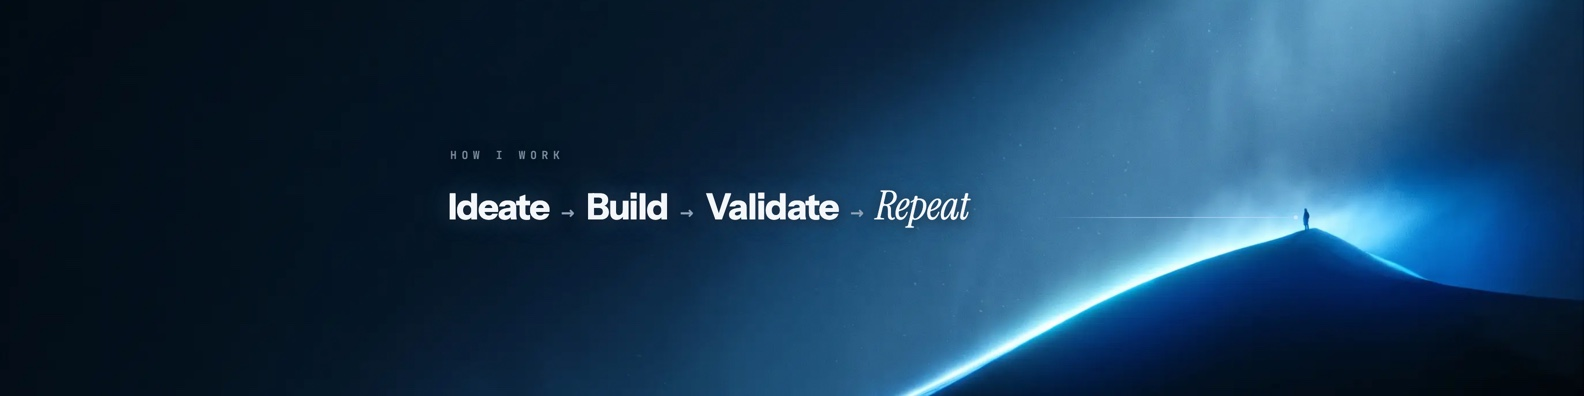
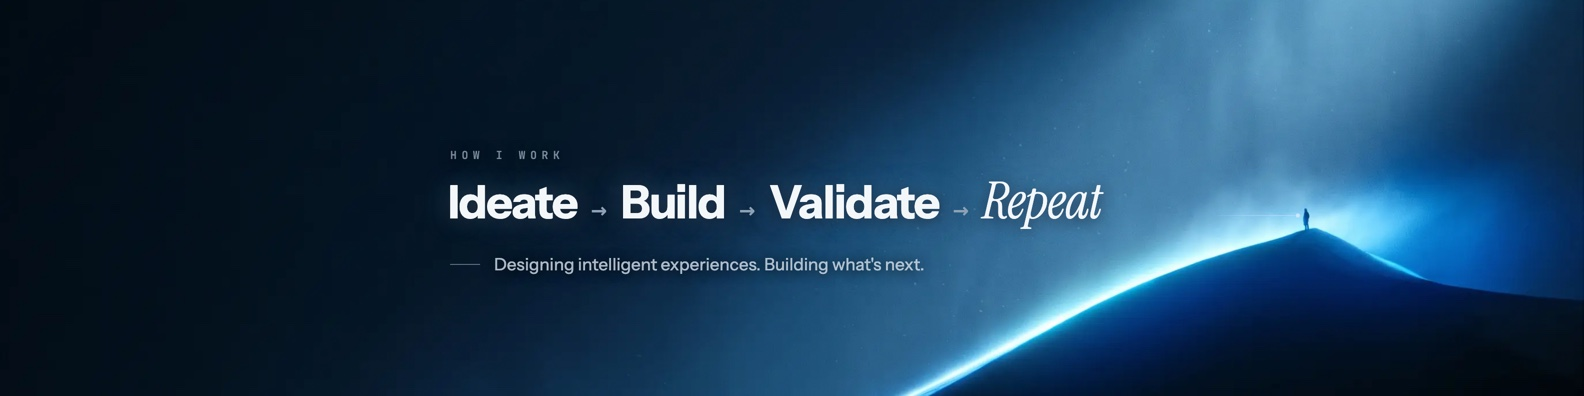
polish(brand): linkedin cover v3.4 — the loop grows, the tagline lands
Per the reference: the loop returns to display size (46px sans, 51px
serif), and 'Designing intelligent experiences. Building what's next.'
arrives beneath it with its dash lead-in. The leader line shortens to keep
its rendezvous with the figure.

Changed region(s): [[0.2784, 0.4545, 0.7115, 0.5758], [0.3093, 0.6364, 0.5878, 0.697]]

diff --git a/linkedin-cover.html b/linkedin-cover.html
@@ -36,26 +36,38 @@
       color: rgba(158,178,198,.75); white-space: nowrap;
       text-shadow: 0 1px 12px rgba(2,4,8,.8);
     }
-    .loop { position: absolute; left: 448px; top: 180px; z-index: 4; white-space: nowrap; }
+    .loop { position: absolute; left: 448px; top: 168px; z-index: 4; white-space: nowrap; }
     .w {
       display: inline-block;
-      font-weight: 700; font-size: 36px; letter-spacing: -0.025em;
+      font-weight: 700; font-size: 46px; letter-spacing: -0.025em;
       color: #F4F7FA;
-      text-shadow: 0 0 26px rgba(140,197,255,.38), 0 2px 14px rgba(2,4,8,.85);
+      text-shadow: 0 0 28px rgba(140,197,255,.38), 0 2px 16px rgba(2,4,8,.85);
     }
     .w.serif {
       font-family: 'Instrument Serif', Georgia, serif; font-style: italic; font-weight: 400;
-      font-size: 40px; letter-spacing: -0.005em;
+      font-size: 51px; letter-spacing: -0.005em;
     }
     .arrow {
-      display: inline-block; margin: 0 12px; transform: translateY(-4px);
+      display: inline-block; margin: 0 14px; transform: translateY(-5px);
       font-family: 'JetBrains Mono', monospace; font-weight: 400;
-      font-size: 22px; color: #8CA0B4; vertical-align: middle;
+      font-size: 26px; color: #8CA0B4; vertical-align: middle;
       text-shadow: 0 2px 18px rgba(2,4,8,.7);
+    }
+    /* the tagline — a dash and a quiet line beneath the loop */
+    .tag {
+      position: absolute; left: 450px; top: 254px; z-index: 4;
+      display: flex; align-items: center; gap: 14px;
+      font-weight: 450; font-size: 17px; letter-spacing: .002em;
+      color: rgba(214,226,238,.8); white-space: nowrap;
+      text-shadow: 0 1px 12px rgba(2,4,8,.8);
+    }
+    .tag::before {
+      content: ''; display: block; width: 30px; height: 1px;
+      background: rgba(158,178,198,.55);
     }
     /* the leader — a light trace from Repeat to the figure on the crest */
     .leader {
-      position: absolute; left: 1052px; top: 217px; width: 252px; height: 1px; z-index: 3;
+      position: absolute; left: 1214px; top: 215px; width: 92px; height: 1px; z-index: 3;
       background: linear-gradient(to right, transparent 0%, rgba(170,208,255,.5) 30%, rgba(190,220,255,.65) 85%, transparent 100%);
     }
     .leader::after {
@@ -77,6 +89,7 @@
   <div class="loop">
     <span class="w">Ideate</span><span class="arrow">→</span><span class="w">Build</span><span class="arrow">→</span><span class="w">Validate</span><span class="arrow">→</span><span class="w serif">Repeat</span>
   </div>
+  <div class="tag">Designing intelligent experiences. Building what's next.</div>
   <div class="leader"></div>
 
   <div class="grain"></div>
